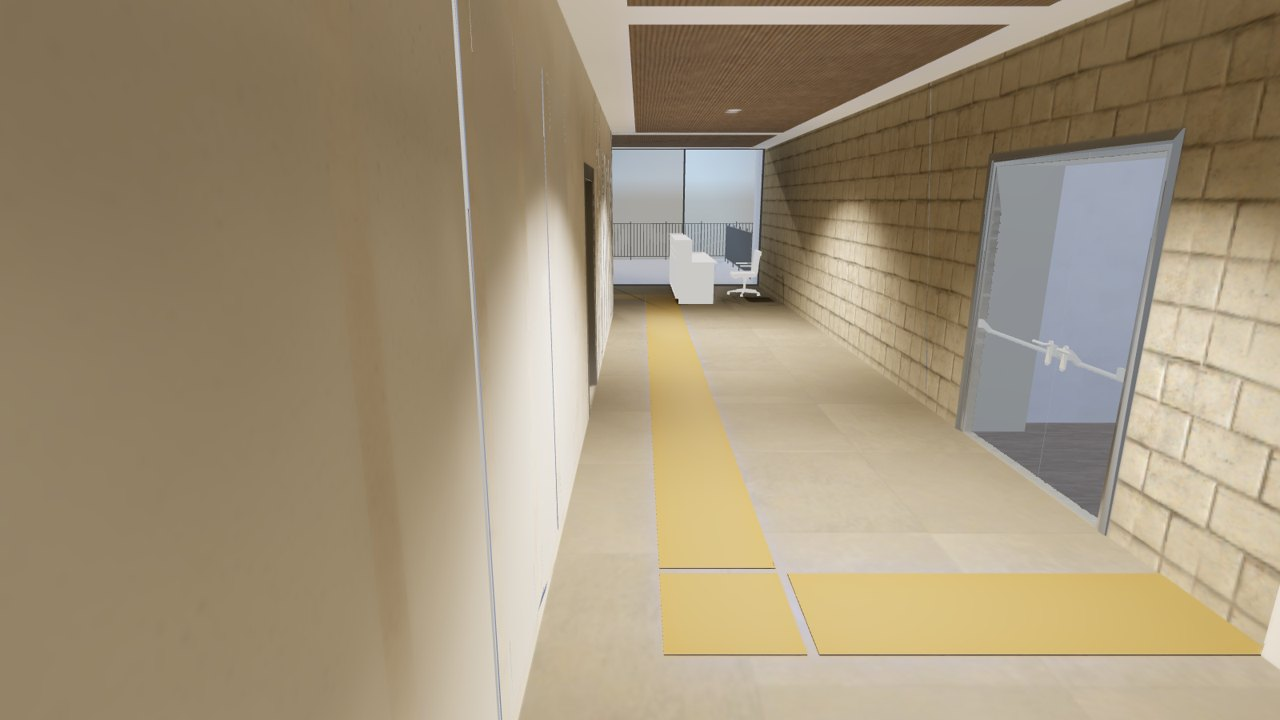
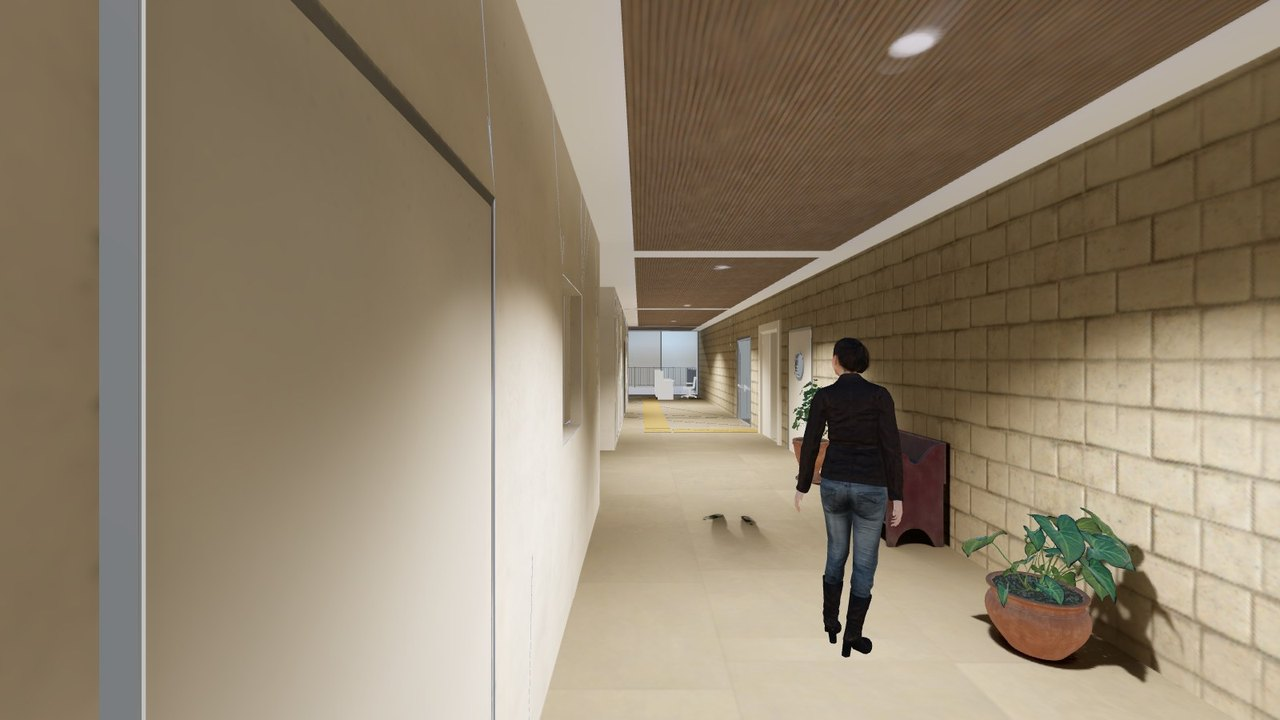
WALK_03: the woman walks the splat walk's route (corridor 139), the poster from the start spot (= the WALK_02 preview's spot)

diff --git a/media/viewer/bim/baked.html b/media/viewer/bim/baked.html
@@ -19454,6 +19454,6 @@ console.log('[wm-rtnonshell] active — ?rtoff=1 disables, ?rtenv= / ?rtflat= tu
 <script></script>
 <script></script>
 <!-- plugin markers appended above by later units (one line each; each stays its own script tag) -->
-<script src="start.js?v=6"></script><script src="adam.js?v=16"></script><script src="bake-view.js?v=2"></script><!-- WALK_03: the BIM baked from the splat night pictures --><!-- LOCAL ONLY: Adam --><!-- omerdotan.com only: the old viewer start spot, DM keys lit, no Revit. See start.js -->
+<script src="start.js?v=6"></script><script>/* WALK_03: the woman walks the splat walk's route - corridor 139, BIM z -8.17 .. 3.83 (the splat's z -3 .. -15 turned 180 about D000) */window.ADAM_LEGS=[{along:"z",from:3.83,to:-8.17,at:-1.95}];</script><script src="adam.js?v=17"></script><script src="bake-view.js?v=2"></script><!-- WALK_03: the BIM baked from the splat night pictures --><!-- LOCAL ONLY: Adam --><!-- omerdotan.com only: the old viewer start spot, DM keys lit, no Revit. See start.js -->
 </body>
 </html>

diff --git a/suite-viewer.html b/suite-viewer.html
@@ -111,8 +111,8 @@
         </div>
         <div class="oyl-walk__win" dir="ltr">
           <span class="oyl-id oyl-mono">WALK_03</span>
-          <button class="oyl-walk__go" type="button" data-title="oYmer BIM Viewer - baked from the splat light" data-page="baked.html?r=1">
-            <img src="media/viewer/bim/poster_baked.jpg?v=1" alt="">
+          <button class="oyl-walk__go" type="button" data-title="oYmer BIM Viewer - baked from the splat light" data-page="baked.html?r=2">
+            <img src="media/viewer/bim/poster_baked.jpg?v=2" alt="">
             <span class="oyl-walk__btn oyl-walk__btn--blink">קפצו פנימה</span>
           </button>
         </div>

diff --git a/en/suite-viewer.html b/en/suite-viewer.html
@@ -111,8 +111,8 @@
         </div>
         <div class="oyl-walk__win" dir="ltr">
           <span class="oyl-id oyl-mono">WALK_03</span>
-          <button class="oyl-walk__go" type="button" data-title="oYmer BIM Viewer - baked from the splat light" data-page="baked.html?r=1">
-            <img src="../media/viewer/bim/poster_baked.jpg?v=1" alt="">
+          <button class="oyl-walk__go" type="button" data-title="oYmer BIM Viewer - baked from the splat light" data-page="baked.html?r=2">
+            <img src="../media/viewer/bim/poster_baked.jpg?v=2" alt="">
             <span class="oyl-walk__btn oyl-walk__btn--blink">Jump in</span>
           </button>
         </div>

diff --git a/media/viewer/bim/adam.js b/media/viewer/bim/adam.js
@@ -27,7 +27,8 @@
   // Each leg runs on ITS corridor's middle line (median of rays across it); a corner is where two lines meet. At either
   // end he plays his own 180 turn and walks the whole route back. He starts 2 m in front of the camera on leg 0,
   // walking away toward the partition.
-  var LEGS = [
+  // a page may give its own route (WALK_03 = the splat walk's route in corridor 139)
+  var LEGS = window.ADAM_LEGS || [
     { along: 'x', from: -12.2, to: -9.25, at: 2.0 },
     { along: 'z', from: 1.8, to: -10.75, at: -9.25 },
     { along: 'x', from: -9.25, to: -3.05, at: -10.75 },
